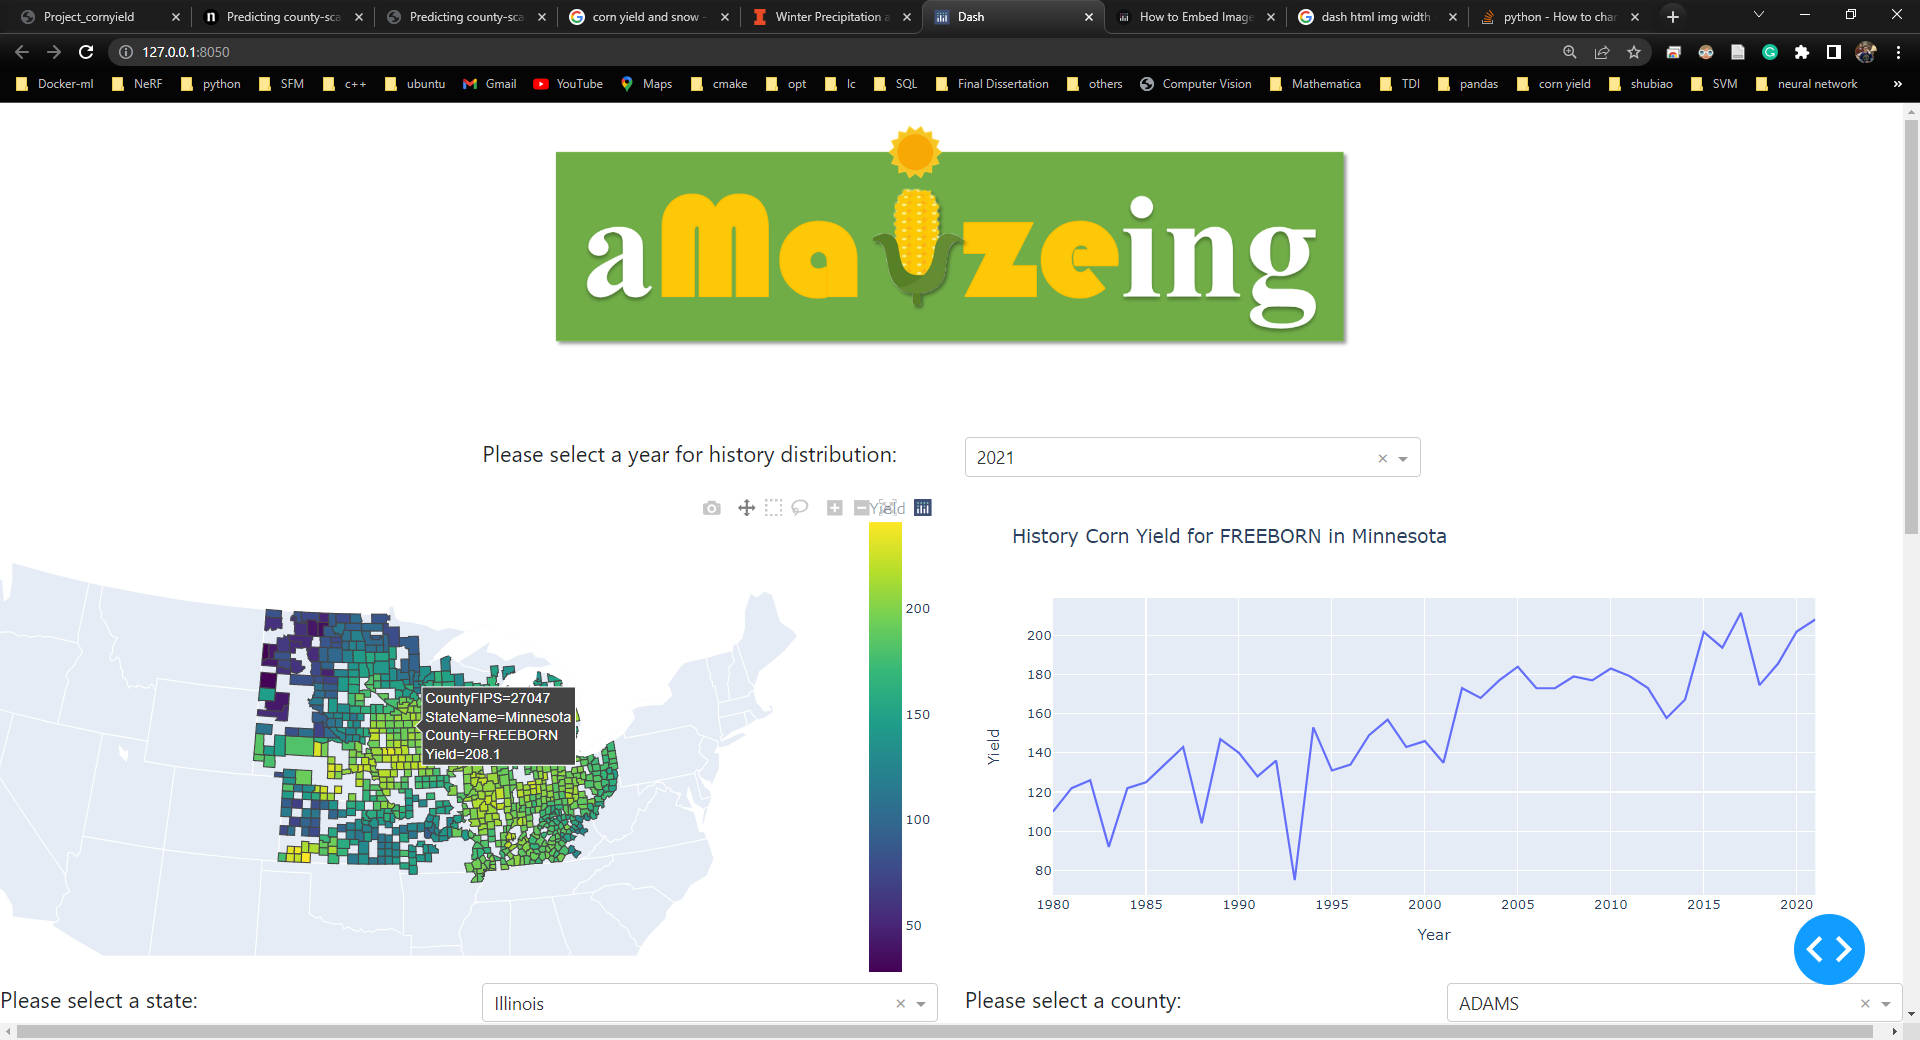
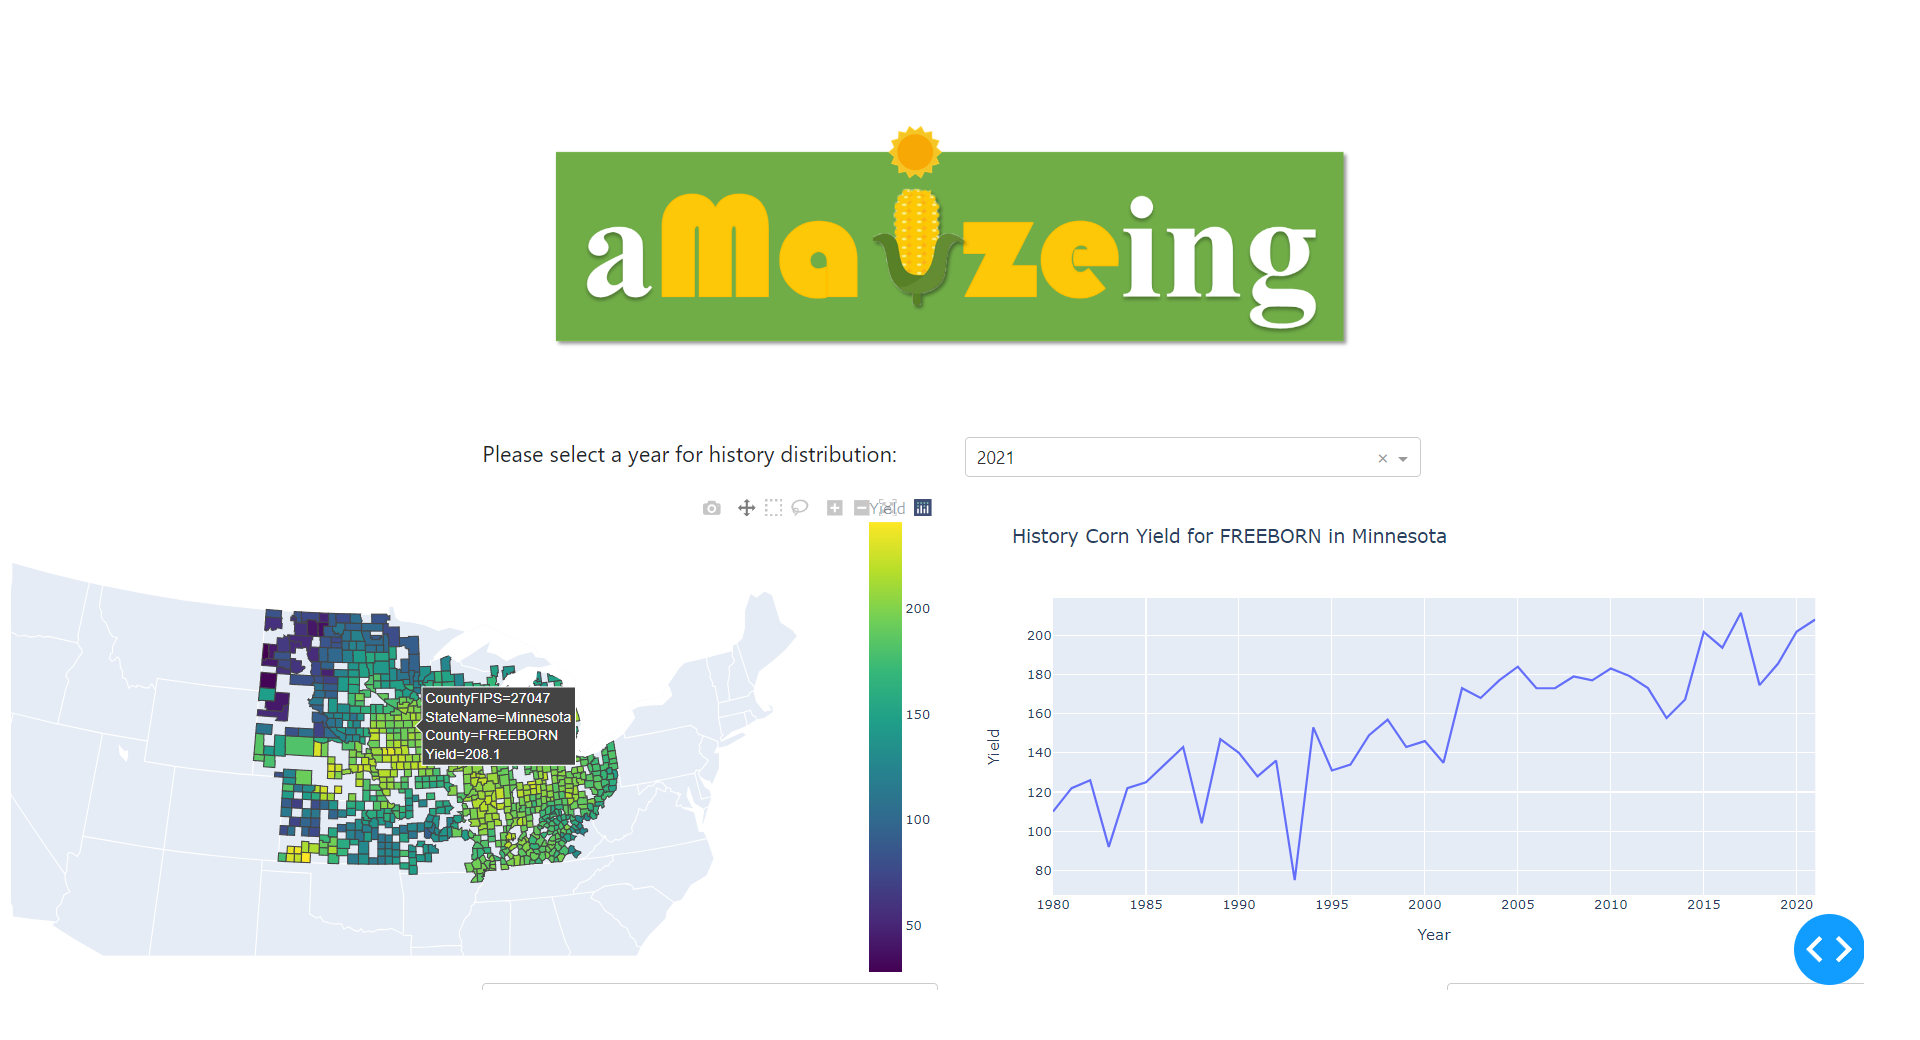
added the tdi heroku link

Changed region(s): [[0.0, 0.0, 1.0, 0.5231], [0.0, 0.9538, 1.0, 1.0], [0.0, 0.5846, 0.0312, 0.8615]]

diff --git a/_projects/project_cornYield.html b/_projects/project_cornYield.html
@@ -154,8 +154,10 @@ this model builds 12 separate random forests corresponding to 12 months to give 
 <h2>An Web App</h2>
 
 <p>
-    A web app based on dash plotly has been deployed to AWS server, so anyone can access this model to get a real time monthly corn yield prediction for a specific county in the corn belt area.
-
+    A web app based on dash plotly has been deployed to <a href="https://boiling-shelf-99035-4f1369a4119d.herokuapp.com/">
+        the Heroku platform
+    </a> (It might take about 10 seconds to load the website at the first time), so anyone can access this model to get a real time monthly corn yield prediction for a specific county in the corn belt area.
+    
     The layout is as follows:
     
 
@@ -163,7 +165,7 @@ this model builds 12 separate random forests corresponding to 12 months to give 
     And by changing the dropdown of years, you can visualize the distribution in this area in differenct year.
     Also, when you click a county you are interested, the right panel will display the corn yields over years.
     <center>
-        <img src="{{site.baseurl}}/assets/images/tdi/maphistorydata.png" alt="model" width = "1000">
+        <img src="{{site.baseurl}}/assets/images/tdi/maphistorydata.PNG" alt="model" width = "1000">
     </center>
 </p>
 
@@ -176,7 +178,7 @@ this model builds 12 separate random forests corresponding to 12 months to give 
     Since currently it is November, and therefore we have the entire 12 models. 
     If the current date is July, then we will only have six models which correspond to last November to this June. 
     <center>
-        <img src="{{site.baseurl}}/assets/images/tdi/realtimeprediction.png" alt="model" width = "1000">
+        <img src="{{site.baseurl}}/assets/images/tdi/realtimeprediction.PNG" alt="model" width = "1000">
     </center>
 </p>
 
@@ -190,7 +192,7 @@ this model builds 12 separate random forests corresponding to 12 months to give 
     In the right panel, we can see that our models successfully reacted to the low precipitation and keeps lower the predictions month by month and finally gives a reasonable prediction.
 
     <center>
-        <img src="{{site.baseurl}}/assets/images/tdi/historyprediction.png" alt="model" width = "1000">
+        <img src="{{site.baseurl}}/assets/images/tdi/historyprediction.PNG" alt="model" width = "1000">
     </center>
 </p>
 
